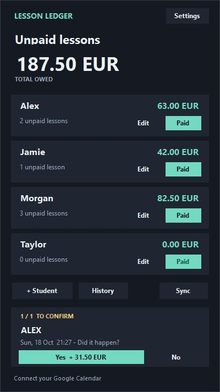
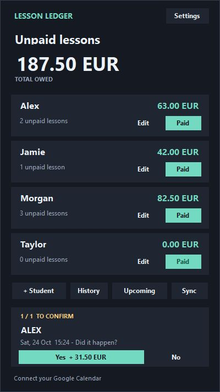
Add read-only Upcoming lessons view

diff --git a/LessonLedger.cs b/LessonLedger.cs
@@ -74,6 +74,31 @@ namespace LessonLedger {
     public string SyncedUtc { get; set; }
     public CalendarCache() { Events = new List<ScheduledLesson>(); }
   }
+  public class UpcomingLesson {
+    public string Key { get; set; }
+    public DateTime StartUtc { get; set; }
+    public string StudentName { get; set; }
+    public string CalendarTitle { get; set; }
+    public decimal? ExpectedPay { get; set; }
+    public string PriceNote { get; set; }
+  }
+  public static class UpcomingLessons {
+    public static List<UpcomingLesson> Build(Ledger ledger, CalendarCache cache, DateTime nowUtc) {
+      DateTime from = Time.TrackingStart(ledger.Data.Settings);
+      if (nowUtc > from) from = nowUtc;
+      var rows = new List<UpcomingLesson>();
+      foreach (var lesson in cache == null || cache.Events == null ? new List<ScheduledLesson>() : cache.Events) {
+        DateTime start = Time.Utc(lesson.StartUtc);
+        if (start < from) continue;
+        var student = ledger.Match(lesson.StudentName);
+        rows.Add(new UpcomingLesson { Key = lesson.Key, StartUtc = start,
+          StudentName = student == null ? lesson.StudentName : student.Name, CalendarTitle = lesson.Title,
+          ExpectedPay = student != null && student.Price > 0 ? (decimal?)student.Price : null,
+          PriceNote = student == null ? "Student not added" : student.Price <= 0 ? "Price not set" : "" });
+      }
+      return rows.OrderBy(r => r.StartUtc).ThenBy(r => r.StudentName, StringComparer.OrdinalIgnoreCase).ThenBy(r => r.Key, StringComparer.Ordinal).ToList();
+    }
+  }
   public static class Json {
     public static JavaScriptSerializer Serializer() { return new JavaScriptSerializer { MaxJsonLength = 64 * 1024 * 1024 }; }
     public static string Write(object value) { return Serializer().Serialize(value); }
@@ -424,9 +449,65 @@ namespace LessonLedger {
     }
     static string Money(decimal amount, string currency) { return amount.ToString("0.00", CultureInfo.InvariantCulture) + " " + currency; }
   }
+  public class UpcomingLessonsDialog : Form {
+    readonly Ledger ledger;
+    readonly Func<CalendarCache> getCache;
+    readonly Func<bool> isSyncing;
+    readonly ListView list;
+    readonly Label details, empty;
+    readonly System.Windows.Forms.Timer refresh = new System.Windows.Forms.Timer();
+    string lastRows = "";
+    public UpcomingLessonsDialog(Ledger current, Func<CalendarCache> calendar, Func<bool> syncing) {
+      ledger = current; getCache = calendar; isSyncing = syncing;
+      Theme.Dialog(this, "Upcoming lessons", 880, 540);
+      Controls.Add(Theme.Label("UPCOMING LESSONS", 20, 18, 840, 28, 11, Theme.Accent, FontStyle.Bold));
+      details = Theme.Label("", 20, 55, 840, 42, 9, Theme.Muted, FontStyle.Regular); Controls.Add(details);
+      list = new ListView { Location = new Point(20, 104), Size = new Size(840, 340), View = View.Details,
+        FullRowSelect = true, MultiSelect = false, BackColor = Theme.Card, ForeColor = Theme.Light,
+        BorderStyle = BorderStyle.None, HideSelection = false, HeaderStyle = ColumnHeaderStyle.Nonclickable };
+      list.Columns.Add("Date", 150); list.Columns.Add("Time", 70); list.Columns.Add("Student", 145);
+      list.Columns.Add("Expected pay", 125); list.Columns.Add("Calendar event", 330); Controls.Add(list);
+      empty = Theme.Label("", 34, 160, 800, 60, 10, Theme.Muted, FontStyle.Regular); empty.BackColor = Theme.Card; Controls.Add(empty); empty.BringToFront();
+      Controls.Add(Theme.Label("Expected pay uses current student prices; viewing this list does not change balances.\nOnly tagged events from the latest calendar sync are shown, up to 35 days ahead.", 20, 460, 725, 56, 9, Theme.Muted, FontStyle.Regular));
+      var close = Theme.Button("Close", 760, 492, 100, 32, true); close.DialogResult = DialogResult.Cancel;
+      Controls.Add(close); CancelButton = close; AcceptButton = close;
+      refresh.Interval = 1000; refresh.Tick += delegate { RefreshLessons(); };
+      Shown += delegate { RefreshLessons(); refresh.Start(); };
+      RefreshLessons();
+    }
+    void RefreshLessons() {
+      var cache = getCache(); var rows = UpcomingLessons.Build(ledger, cache, DateTime.UtcNow);
+      bool hasSync = cache != null && !String.IsNullOrEmpty(cache.SyncedUtc);
+      string lastSync = "No successful calendar sync yet";
+      if (hasSync) {
+        try { lastSync = "Last successful sync: " + Time.Local(cache.SyncedUtc).ToString("dd MMM yyyy HH:mm", CultureInfo.InvariantCulture); }
+        catch { lastSync = "Last sync time unavailable"; }
+      }
+      string information = rows.Count + (rows.Count == 1 ? " upcoming lesson" : " upcoming lessons") + "  |  Times: Europe/Vilnius\n" + lastSync + (isSyncing() ? "  |  Sync in progress..." : "");
+      if (details.Text != information) details.Text = information;
+      string emptyText = hasSync ? "No upcoming lessons in the latest calendar sync.\nClose this list and click Sync to check for calendar updates." : "No calendar lessons downloaded yet.\nConnect your calendar in Settings, then click Sync.";
+      if (empty.Text != emptyText) empty.Text = emptyText;
+      empty.Visible = rows.Count == 0;
+      string signature = Json.Write(new { Rows = rows, Currency = ledger.Data.Settings.Currency });
+      if (signature == lastRows) return;
+      list.BeginUpdate();
+      try {
+        list.Items.Clear();
+        foreach (var row in rows) {
+          DateTime local = TimeZoneInfo.ConvertTimeFromUtc(row.StartUtc, Time.Zone);
+          string amount = row.ExpectedPay.HasValue ? row.ExpectedPay.Value.ToString("0.00", CultureInfo.InvariantCulture) + " " + ledger.Data.Settings.Currency : row.PriceNote;
+          var item = new ListViewItem(new string[] { local.ToString("ddd, dd MMM yyyy", CultureInfo.InvariantCulture), local.ToString("HH:mm", CultureInfo.InvariantCulture), row.StudentName, amount, row.CalendarTitle });
+          if (!row.ExpectedPay.HasValue) item.ForeColor = Theme.Amber;
+          list.Items.Add(item);
+        }
+        lastRows = signature;
+      } finally { list.EndUpdate(); }
+    }
+    protected override void Dispose(bool disposing) { if (disposing) refresh.Dispose(); base.Dispose(disposing); }
+  }
   public class Widget : Form {
     readonly Store store; Ledger ledger; CalendarCache cache; readonly bool preview; bool inspection; readonly string root;
-    FlowLayoutPanel students; Panel question; Label total, syncLabel, pendingLabel; Button addStudent, history, sync; NotifyIcon tray;
+    FlowLayoutPanel students; Panel question; Label total, syncLabel, pendingLabel; Button addStudent, history, upcoming, sync; NotifyIcon tray;
     readonly System.Windows.Forms.Timer timer = new System.Windows.Forms.Timer();
     readonly System.Windows.Forms.Timer settingsTimer = new System.Windows.Forms.Timer();
     bool syncing, modal, shuttingDown, readyLogged; IntPtr desktopParent, lastForeground; DateTime lastAttempt = DateTime.MinValue; string syncStatus = "Connect your Google Calendar";
@@ -444,9 +525,11 @@ namespace LessonLedger {
       total = Theme.Label("0.00 EUR", 22, 91, 350, 43, 26, Theme.Light, FontStyle.Bold); Controls.Add(total);
       Controls.Add(Theme.Label("TOTAL OWED", 24, 137, 350, 20, 8, Theme.Muted, FontStyle.Bold));
       students = new FlowLayoutPanel { Location = new Point(20, 172), Size = new Size(360, 195), AutoScroll = false, FlowDirection = FlowDirection.TopDown, WrapContents = false, BackColor = Theme.Background }; Controls.Add(students);
-      addStudent = Theme.Button("+ Student", 22, 381, 110, 30, false); addStudent.Click += delegate { EditStudent(null, null); }; Controls.Add(addStudent);
-      history = Theme.Button("History", 143, 381, 90, 30, false); history.Click += delegate { OpenHistory(); }; Controls.Add(history);
-      sync = Theme.Button("Sync", 290, 381, 88, 30, false); sync.Click += delegate { StartSync(true); }; Controls.Add(sync);
+      addStudent = Theme.Button("+ Student", 22, 381, 98, 30, false); addStudent.Click += delegate { EditStudent(null, null); }; Controls.Add(addStudent);
+      history = Theme.Button("History", 128, 381, 68, 30, false); history.Click += delegate { OpenHistory(); }; Controls.Add(history);
+      upcoming = Theme.Button("Upcoming", 204, 381, 100, 30, false); upcoming.Click += delegate { OpenUpcoming(); }; Controls.Add(upcoming);
+      tips.SetToolTip(upcoming, "View upcoming calendar lessons and their expected pay.");
+      sync = Theme.Button("Sync", 312, 381, 66, 30, false); sync.Click += delegate { StartSync(true); }; Controls.Add(sync);
       question = new Panel { Location = new Point(20, 426), Size = new Size(360, 108), BackColor = Theme.Card, Visible = false }; Controls.Add(question);
       syncLabel = Theme.Label(syncStatus, 22, 548, 350, 21, 8, Theme.Muted, FontStyle.Regular); Controls.Add(syncLabel);
       tips.SetToolTip(syncLabel, "Google Calendar refreshes every 5 minutes. Questions appear at the scheduled start time.");
@@ -605,7 +688,7 @@ namespace LessonLedger {
       // Size the list for every complete row, then place the footer below it.
       // The question card reserves space only while a confirmation is due.
       int actionsTop = students.Bottom + 14;
-      addStudent.Top = history.Top = sync.Top = actionsTop;
+      addStudent.Top = history.Top = upcoming.Top = sync.Top = actionsTop;
       question.Top = sync.Bottom + 15; question.Visible = pending.Count > 0;
       syncLabel.Top = (pending.Count > 0 ? question.Bottom : sync.Bottom) + 14;
       int height = syncLabel.Bottom + 11;
@@ -662,6 +745,9 @@ namespace LessonLedger {
       WithDialog(delegate { using (var history = new HistoryDialog(ledger, ledger.Data.Settings.Currency)) {
         if (history.ShowDialog() == DialogResult.OK && history.SelectedPayment != null) Mutate(delegate { ledger.Undo(history.SelectedPayment); });
       } });
+    }
+    void OpenUpcoming() {
+      WithDialog(delegate { using (var dialog = new UpcomingLessonsDialog(ledger, delegate { return cache; }, delegate { return syncing; })) dialog.ShowDialog(); });
     }
     void ShowError(string message) { MessageBox.Show(message, "Lesson Ledger", MessageBoxButtons.OK, MessageBoxIcon.Information); }
     void StartSync(bool manual) {
@@ -778,7 +864,30 @@ namespace LessonLedger {
       Check(File.Exists(store.FilePath + ".bak") && store.Load().Entries.Count == state.Entries.Count, "atomic save and backup");
       const string fakeFeed = "https://calendar.google.com/calendar/ical/example/private-example/basic.ics"; store.SetFeed(fakeFeed);
       Check(store.GetFeed() == fakeFeed && !Encoding.UTF8.GetString(File.ReadAllBytes(Path.Combine(folder, "calendar-link.dat"))).Contains(fakeFeed), "private link encrypted at rest");
-      return assertions + " ledger checks passed.\r\n";
+      int ledgerChecks = assertions;
+      var upcomingState = new State(); var upcomingLedger = new Ledger(upcomingState);
+      var alex = new Student { Name = "Alex", CalendarName = "ALEX", Price = 22 }; upcomingState.Students.Add(alex);
+      upcomingState.Students.Add(new Student { Name = "Casey", CalendarName = "CASEY", Price = 0 });
+      upcomingLedger.SetTotals(alex, 1, 8);
+      var fixture = new CalendarCache { Events = new List<ScheduledLesson> {
+        new ScheduledLesson { Key = "later", StudentName = "ALEX", Title = "[lesson] ALEX", StartUtc = "2026-10-24T13:00:00+03:00" },
+        new ScheduledLesson { Key = "past", StudentName = "ALEX", Title = "[lesson] ALEX", StartUtc = "2026-10-24T08:59:59Z" },
+        new ScheduledLesson { Key = "next", StudentName = " alex ", Title = "[lesson] Alex", StartUtc = "2026-10-24T09:30:00Z" },
+        new ScheduledLesson { Key = "unknown", StudentName = "Morgan", Title = "[lesson] Morgan", StartUtc = "2026-10-24T09:45:00Z" },
+        new ScheduledLesson { Key = "no-rate", StudentName = "CASEY", Title = "[lesson] Casey", StartUtc = "2026-10-24T09:50:00Z" }
+      } };
+      DateTime now = new DateTime(2026, 10, 24, 9, 0, 0, DateTimeKind.Utc);
+      string original = Json.Write(upcomingState); var scheduledRows = UpcomingLessons.Build(upcomingLedger, fixture, now);
+      Check(scheduledRows.Select(r => r.Key).SequenceEqual(new string[] { "next", "unknown", "no-rate", "later" }), "upcoming lessons exclude past events and sort by actual UTC time");
+      Check(scheduledRows[0].StudentName == "Alex" && scheduledRows[0].CalendarTitle == "[lesson] Alex", "upcoming lessons match calendar names and retain the original event title");
+      Check(scheduledRows[0].ExpectedPay == 22 && upcomingLedger.Balance(alex) == 8, "upcoming pay uses the current price rather than the existing balance");
+      Check(!scheduledRows[1].ExpectedPay.HasValue && scheduledRows[1].PriceNote == "Student not added", "unmatched calendar students stay visible without an invented price");
+      Check(!scheduledRows[2].ExpectedPay.HasValue && scheduledRows[2].PriceNote == "Price not set", "missing prices are shown explicitly");
+      Check(Json.Write(upcomingState) == original, "viewing upcoming lessons does not change saved lesson or payment data");
+      Check(UpcomingLessons.Build(upcomingLedger, new CalendarCache(), now).Count == 0, "upcoming view handles an empty calendar cache");
+      upcomingState.Settings.TrackingDate = "2026-10-25";
+      Check(UpcomingLessons.Build(upcomingLedger, fixture, now).Count == 0, "upcoming view respects the tracking start date");
+      return ledgerChecks + " ledger checks and " + (assertions - ledgerChecks) + " upcoming lesson checks passed.\r\n";
     }
   }
 }

diff --git a/docs/USAGE.md b/docs/USAGE.md
@@ -19,7 +19,7 @@ Copy-Item -LiteralPath (Get-Command node.exe -CommandType Application).Source -D
 
 If using the portable Node distribution, copy its `node.exe` into `vendor` manually and run the last two commands. Keep the rest of the repository alongside the built executable: the calendar helper and its parser are needed for sync.
 
-The published source excludes Node's executable and generated app binaries. Locally, `vendor/node.exe` and the built `.exe` are ignored by Git. The tested calendar runtime was Node.js 24.19.0.
+The published source excludes Node's executable and generated app binaries. Locally, `vendor/node.exe` and the built `.exe` are ignored by Git. This update was tested with Node.js 24.22.1.
 
 ## Try the fictional demo first
 
@@ -36,8 +36,17 @@ This opens a normal preview window with **Alex, Jamie, Morgan, and Taylor**, fic
 - Press **Paid** for Alex: the unpaid balance and count clear.
 - Open **History**, select the payment, and use **Undo selected payment** to restore it.
 - Use **Edit** to try a balance correction.
+- Open **Upcoming** to see five fictional future events. The list uses current lesson prices, and unmatched Jordan remains visible as **Student not added**.
 
 To recreate the sample records, close the preview and run the preparation command with `--reset`. This replaces the fictional demo ledger and cache only. The demo does not contain a calendar address.
+
+For the missing-price example shown in the README, close the preview and run:
+
+```powershell
+.\vendor\node.exe .\demo\prepare-demo.mjs --reset --upcoming-examples
+```
+
+This keeps the same fictional balances and sets Taylor's future lesson price to zero, so Upcoming displays **Price not set**. Reopen the preview with the command above. Run the preparation command with `--reset` alone to return to the usual sample prices.
 
 ## Connect your own calendar
 
@@ -56,6 +65,20 @@ An unanswered event becomes a question at its start time, not its end. **Yes** r
 If an earlier lesson is already included in an opening balance and also appears as a due question, answer No for that occurrence so it is not charged twice.
 
 This version uses **Europe/Vilnius** for lesson display, tracking-date boundaries, and floating calendar times. The Windows timezone identifier is `FLE Standard Time`. Choosing another currency changes its label only; it does not convert amounts.
+
+## Upcoming lessons
+
+The **Upcoming** button shares the widget's existing action row with **+ Student**, **History**, and **Sync**. It opens a read-only list with **Date**, **Time**, **Student**, **Expected pay**, and **Calendar event** columns.
+
+- Rows are sorted by the actual start instant, including timestamps with different timezone offsets. Displayed dates and times use Europe/Vilnius and follow its daylight-saving rules.
+- Only downloaded events at or after both now and the configured tracking start are included. A future event remains visible even if it already has a recorded lesson answer.
+- Student matching uses the saved calendar name, ignoring surrounding whitespace and case. The original event title is displayed separately.
+- Expected pay is the matched student's current lesson price, not their existing balance, a historical charge, or a duration-based calculation. Unknown students show **Student not added**; non-positive or missing prices show **Price not set**. These rows are kept in the list without an invented amount.
+- The header shows the last successful sync time and whether a sync is in progress. The view refreshes from the updated in-memory cache when a background sync finishes; an unchanged row set is retained without rebuilding it.
+
+Opening the list does not start another download. Use **Sync** on the widget to fetch updates. The existing fetch window ends up to **35 days after the sync**, so events beyond that horizon are not available in this view. Without a successful sync, the list explains how to connect a calendar; an empty synced cache shows a separate no-upcoming-lessons message.
+
+This view changes no balances, lesson decisions, payments, calendar events, storage schema, or startup settings. Actual charges still require the usual confirmation workflow.
 
 ## Corrections and payments
 
@@ -104,6 +127,6 @@ Start-Process -FilePath .\LessonLedger.exe -ArgumentList '--self-test' -Wait -Wi
 Get-Content .\test-results.txt
 ```
 
-The calendar suite checks filtering, recurrence, rescheduling, cancellations, daylight-saving changes, and feed-address restrictions. The ledger checks exercise confirmations, prices, payments, undo rules, saving, and encryption with test records. They write only local test output and isolated `qa` records.
+The calendar suite checks filtering, recurrence, rescheduling, cancellations, daylight-saving changes, and feed-address restrictions. The ledger checks exercise confirmations, prices, payments, undo rules, saving, and encryption with test records. The upcoming checks cover filtering, chronological ordering across offsets, calendar-name matching, original titles, current prices, missing information, unchanged accounting state, empty caches, and the tracking date. They write only local test output and isolated `qa` records.
 
-The publication copy passed **10 calendar tests and 15 ledger checks**. Its native preview was also checked with fictional data for confirmation, Paid, payment undo, and an Edit correction. A fresh real calendar connection, a complete Windows reboot, and disaster recovery were not tested during this review.
+The Upcoming update passed **10 calendar tests, 15 ledger checks, and 8 upcoming-lesson checks**. Fictional-data preview and dialog checks covered the four-button layout, confirmation, missing students and prices, cache refresh while open, retained unchanged rows, and empty/no-sync messages. Additional checks covered the repeated daylight-saving hour and future events with existing answers. A fresh real calendar connection, a complete Windows reboot, and disaster recovery were not tested during this publication update.

diff --git a/README.md b/README.md
@@ -31,6 +31,16 @@ For shorter lessons and other small corrections, I use **Edit** to adjust the cu
 
 The widget normally sits behind other application windows, ready when I show the desktop. It checks the calendar periodically and keeps unanswered questions available until I deal with them.
 
+## A look at the lessons ahead
+
+**Upcoming** sits beside + Student, History, and Sync. It opens a read-only list of downloaded future lessons, showing their date, time, student, expected pay, and original calendar title. Lessons are ordered by their actual start time and displayed in **Europe/Vilnius** time, including daylight-saving changes.
+
+[![Upcoming lessons with fictional prices and explicit missing-student and missing-price labels.](media/upcoming-preview.png)](media/upcoming.png)
+
+*Fictional examples: Alex's next lesson is estimated at €31.50, independently of his unpaid balance. Jordan is marked Student not added; Taylor is marked Price not set.*
+
+Expected pay uses each student's current lesson price. Opening the list adds no charges and changes no balances. It respects the tracking start date, shows the last successful sync, and refreshes if an in-progress sync finishes while it is open. It uses the existing calendar cache, which is fetched up to 35 days ahead, so it is a snapshot of downloaded lessons rather than a separate live calendar view.
+
 ## History makes it easier to correct mistakes
 
 History records lesson confirmations, skipped lessons, balance corrections, and payments. An eligible payment can be undone to restore the previous unpaid balance. If that student has newer changes, I use Edit instead.
